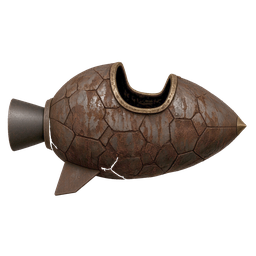
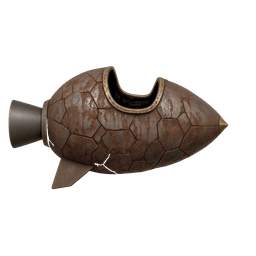
The Spill ship set: cut tight at the seams, with the level-3 engine and cone
The first cut carried a band of hull around every part, so a rust-based
overlay dragged a rust patch onto a white hull. The owner marked the real
boundaries: each part now cuts at its own seam - the collar for thrusters,
the metallic edge for cones, the rim for cockpits - and nothing of the
hull comes with it.

Two parts arrived as standalone renders and are registered into the
shared frame: the red finned engine (scaled so its bell matches the base
nozzle, collar on the base seam, drawn whole because hiding its body
inside the hull hid its fins as well) and the geared drill cone with the
lit tip (mounted at the nose seam, scaled to the hull's height there).
The polished silver hull replaces blue-steel as plating level 2; the
blue, the armoured gold cone and the engraved bell stay as alternates.

Claude-Session: https://claude.ai/code/session_01J5Dh8SFcy7mBNLUQWGvcVr

Changed region(s): [[0.0, 0.2188, 0.9688, 0.7812]]

diff --git a/docs/art/spill-ship/README.md b/docs/art/spill-ship/README.md
@@ -1,57 +1,69 @@
 # The Spill ship: one hull, three swappable parts
 
-Thirteen sprites, all 256x256 RGBA, all sharing one frame. Layer them in
+Sixteen sprites, all 256x256 RGBA, all sharing one frame. Layer them in
 this order and they register to the pixel:
 
     hull-N  ->  thrust-N  ->  cone-N  ->  cockpit-N
 
-`frame.json` records the source crop and the tile size inside the 256 box.
-Every sprite was cut from the same shared frame, so no per-part offsets are
-needed: draw them all at the same rect.
+`frame.json` records the source crop (in the render's pixel coordinates,
+extended left and right for the level-3 parts) and the tile size inside the
+256 box. Every sprite was cut from that one frame, so no per-part offsets
+are needed: draw them all at the same rect.
 
 ## The four axes
 
-| axis        | meter in the Depot | levels                                   |
-|-------------|--------------------|------------------------------------------|
-| `hull-0..3` | Plating (material) | rusted sheet steel, bronze, blue-steel, white composite |
-| `cone-1..3` | Power-ups          | silver, gold, armoured gold              |
-| `thrust-1..3` | Thrusters        | ringed nozzle, three nozzles, side pods  |
-| `cockpit-1..3` | Shield          | visor, side windows, sealed canopy       |
+| axis           | Depot meter        | levels                                        |
+|----------------|--------------------|-----------------------------------------------|
+| `hull-0..3`    | Plating (material) | rusted sheet steel, bronze, polished silver, white composite |
+| `cone-1..3`    | Power-ups          | silver, gold, geared drill with a lit blue tip |
+| `thrust-1..3`  | Thrusters          | ringed bell, three nozzles, red finned engine  |
+| `cockpit-1..3` | Shield             | visor, side windows, sealed canopy            |
 
 Level 0 of cone, thrust and cockpit is "draw nothing": the bare hull already
 carries a plain nozzle, a plain nose and an open cockpit.
 
+Alternates, cut and registered but not in the ladder: `cone-3-gold` (the
+armoured gold cone), `thrust-1-alt` (the engraved bell from the silver
+hull), `hull-2-blue` (the blue-steel hull the silver one replaced).
+
 ## How the cuts were made
 
-The background is alpha'd by flood-filling the dark region inward from the
-frame edge. That is deliberate rather than a plain threshold: an OPEN
-cockpit is reachable from the background through its own mouth, so it
-clears and the pilot shows through it, while a SEALED canopy is not
-reachable, so it stays opaque and hides the pilot. That is exactly the
-behaviour the shield ladder wants, and it falls out of the fill for free.
+**Background.** Alpha is flood-filled inward from the frame edge. That is
+deliberate rather than a threshold: an OPEN cockpit is reachable from the
+background through its own mouth, so it clears and the pilot shows through,
+while a SEALED canopy is not reachable, so it stays opaque and hides the
+pilot. That is the shield ladder's behaviour, and it falls out of the fill.
 
-Each hull is gamma-lifted onto a rising brightness ladder (median lit value
-90, 117, 137, 181) so an upgrade reads as progress at flight size, where
-the ship is only 58px against deep space. The source renders all sat at
-61-76 and were indistinguishable that small.
+**Brightness.** Each hull is gamma-lifted onto a rising ladder (median lit
+value 90, 117, 151, 181) so an upgrade reads as progress at flight size,
+where the ship is 58px against deep space. The source renders all sat at
+61 to 81 and were indistinguishable that small.
 
-Part overlays are masked two different ways, because the parts differ in
-kind:
+**Parts are cut at their seam, never by a band or a pixel difference.**
+Every render re-rolls the hull texture (mid-hull correlation against the
+base runs 0.44 to 0.95), so any difference mask drags a patch of mismatched
+hull along with the part. Instead:
 
-- **cone and thrust** extend past the hull silhouette, so they are cut on
-  their own outline inside a band at the nose or the tail.
-- **cockpit** is a hole in the hull, so it is cut by the hole itself: the
-  mask is the region where the bare hull is see-through, dilated slightly
-  to catch the gold rim. Cutting it by pixel-difference does not work -
-  each source render re-rolls the hull texture (mid-hull correlation
-  against the base runs 0.44 to 0.95), so a difference mask drags a patch
-  of mismatched hull along with the canopy.
+- *thrusters* keep everything left of the collar seam, found as the
+  leftmost point of the egg's outline on rows the nozzle does not occupy.
+  The level-3 engine is a standalone render, scaled so its bell matches
+  the base nozzle's 306px and set with its collar on that seam. It is
+  drawn whole over the tail: with the body hidden inside the hull its fins
+  fall inside the silhouette too, and level 3 reads as a bare nozzle.
+- *cones* are the bright metallic blob past the nose band. The geared
+  level-3 cone is a standalone render mounted at the nose seam and scaled
+  to the hull's height there.
+- *cockpits* are the gold rim plus glass plus the base hull's open hole,
+  taking only the connected blob that contains the hole, and nothing below
+  the rim.
 
 ## Known gaps
 
 - The tinted canopies read as a dark opening at 58px, much like the bare
-  cockpit. If the shield level needs to read in flight, the canopy wants a
+  cockpit. If the shield level must read in flight, the canopy wants a
   bright highlight, or it should be drawn in code over the cockpit region.
+- The geared cone's mechanical detail is lost at 58px; what survives is a
+  dark cone with a lit blue tip, which is still a distinct top tier.
 - The renders are photoreal studio shots; the rest of the game is painted
   illustration. They carry best at Depot-card size.
 - Nothing loads these yet. Whether they are loadout skins or mid-run
